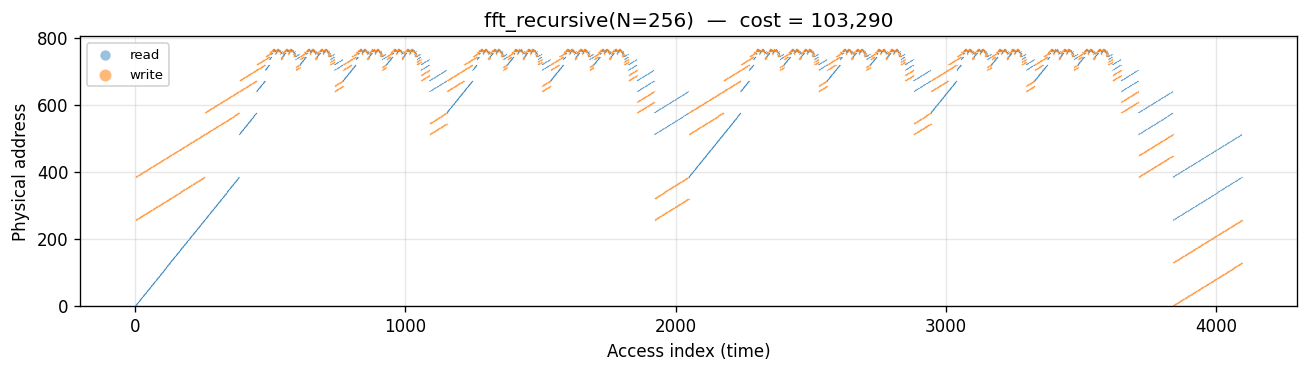
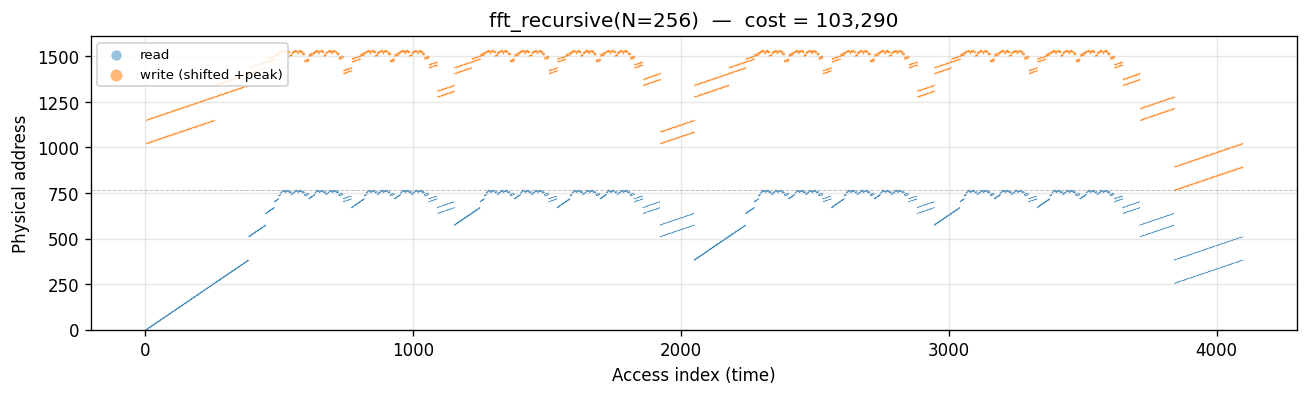
grid: shift write visualizations above the read peak
Reads and writes were overlapping at their shared real addresses
(e.g., tiled_matmul's C slab gets both pre-load reads and flush
writes). Plot now shifts each write's y-coordinate by the allocator's
peak, so:

  reads occupy  [0 .. peak]  (true addresses)
  writes occupy [peak .. 2*peak]  (shifted — "output band")

A dashed gray line at y=peak marks the boundary. Each write's
relative position within its slab is preserved, so you can still tell
scratchpad writes from output-array writes.

Matches the "outputs allocated above the highest used byte"
convention the user asked for — purely a visualization change,
no cost or allocator changes.

diff --git a/experiments/grid/generate_traces.py b/experiments/grid/generate_traces.py
@@ -34,9 +34,13 @@ def slugify(name: str) -> str:
 
 
 def plot_trace(log: list[int], writes: list[tuple[int, int]],
-               title: str, out_path: str) -> None:
+               peak: int, title: str, out_path: str) -> None:
+    """Reads plotted at their real addresses (tab:blue, below `peak`).
+    Writes are shifted up by `peak` so they occupy a dedicated
+    visualization band [peak, 2*peak] above the highest used byte —
+    matching the "outputs above peak" convention."""
     n = len(log)
-    fig, ax = plt.subplots(figsize=(11, 3.2))
+    fig, ax = plt.subplots(figsize=(11, 3.4))
     if n > 0:
         ax.scatter(
             np.arange(n), np.asarray(log),
@@ -46,12 +50,20 @@ def plot_trace(log: list[int], writes: list[tuple[int, int]],
         )
     if writes:
         wt, wa = zip(*writes)
+        # Shift write addresses above `peak` so reads and writes don't
+        # visually overlap — preserves each write's relative position
+        # within its slab.
+        wa_shifted = [peak + addr for addr in wa]
         ax.scatter(
-            wt, wa,
+            wt, wa_shifted,
             s=0.8, c="tab:orange", alpha=0.55,
             rasterized=True, linewidths=0,
-            label="write",
+            label="write (shifted +peak)",
         )
+        # Dashed horizontal line marking the boundary between the
+        # "real address" band (below) and the "phantom output" band (above).
+        ax.axhline(peak, color="gray", linestyle="--",
+                   linewidth=0.6, alpha=0.5)
     ax.set_xlabel("Access index (time)")
     ax.set_ylabel("Physical address")
     ax.set_title(title)
@@ -81,7 +93,7 @@ def main() -> None:
 
         out_path = os.path.join(traces_dir, f"{slug}.png")
         title = f"{name}  —  cost = {logged.cost:,}"
-        plot_trace(logged.log, logged.writes, title, out_path)
+        plot_trace(logged.log, logged.writes, logged.peak, title, out_path)
         rel = os.path.relpath(out_path, HERE)
         print(f"{name:<40} {len(logged.log):>10,} {len(logged.writes):>10,} "
               f"{logged.cost:>12,}  {rel}")
